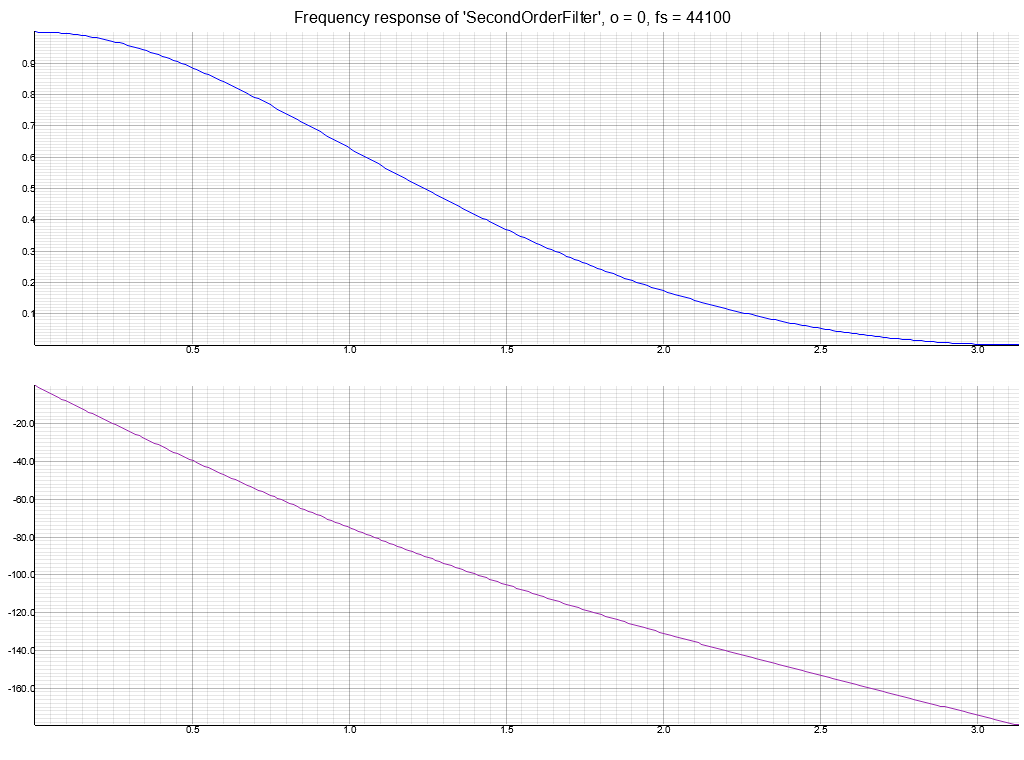
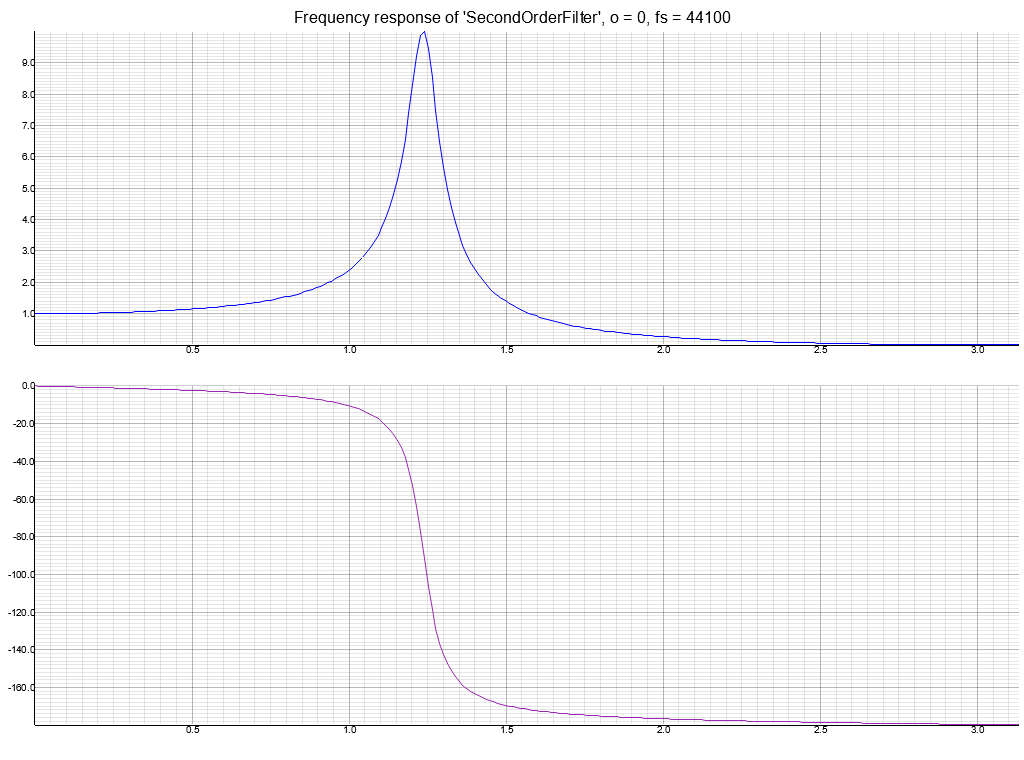
Fix tests

diff --git a/src/plot.rs b/src/plot.rs
@@ -33,7 +33,7 @@ pub fn plot_pz(
         [Complex::new(-1.0, 1.0), Complex::new(1.0, -1.0)]
     ];
     let zero_sym: [Complex<f64>; CIRCLE_RES] = (0.0..=TAU).linspace_array()
-        .map2(/*const*/ |theta| Complex::new(theta.approx_cos(), theta.approx_sin()));
+        .map(|theta| Complex::new(theta.cos(), theta.sin()));
 
     let (sigma_min, sigma_max, omega_min, omega_max) = poles.into_iter()
         .chain(zeros.into_iter())
@@ -132,7 +132,7 @@ where
 
     let ([x_min, y_norm_min, y_arg_min], [x_max, y_norm_max, y_arg_max]) = xy.into_iter()
         .map(|(x, y_norm, y_arg)| ([x, y_norm, y_arg], [x, y_norm, y_arg]))
-        .reduce(|a, b| (a.0.zip(b.0).map(|(a, b)| a.min(b)), a.1.zip(b.1).map(|(a, b)| a.max(b))))
+        .reduce(|a, b| (core::array::from_fn(|i| a.0[i].min(b.0[i])), core::array::from_fn(|i| a.1[i].max(b.1[i]))))
         .unwrap();
     
     let area = BitMapBackend::new(plot_path, PLOT_RES).into_drawing_area();
@@ -198,7 +198,7 @@ where
 
     let ([x_min, y_min], [x_max, y_max]) = xy.into_iter()
         .map(|(x, y)| ([x, y], [x, y]))
-        .reduce(|a, b| (a.0.zip(b.0).map(|(a, b)| a.min(b)), a.0.zip(b.0).map(|(a, b)| a.max(b))))
+        .reduce(|a, b| (core::array::from_fn(|i| a.0[i].min(b.0[i])), core::array::from_fn(|i| a.1[i].max(b.1[i]))))
         .unwrap();
     
     let area = BitMapBackend::new(plot_path, PLOT_RES).into_drawing_area();
@@ -247,11 +247,11 @@ where
 
     let area = SVGBackend::new(plot_path, PLOT_RES).into_drawing_area();
     
-    let x_min = x.reduce(F::min).unwrap();
-    let x_max = x.reduce(F::max).unwrap();
+    let x_min = x.iter().copied().reduce(F::min).unwrap();
+    let x_max = x.iter().copied().reduce(F::max).unwrap();
     
-    let y_min = y.reduce(F::min).unwrap();
-    let y_max = y.reduce(F::max).unwrap();
+    let y_min = y.iter().copied().reduce(F::min).unwrap();
+    let y_max = y.iter().copied().reduce(F::max).unwrap();
 
     let f_ref = &f;
     let f_values: Vec<F> = y.into_iter()
@@ -322,7 +322,7 @@ where
 
     let ([x_min, y_min, z_min], [x_max, y_max, z_max]) = f_values.into_iter()
         .map(|f| (f, f))
-        .reduce(|a, b| (a.0.zip(b.0).map(|(a, b)| a.min(b)), a.1.zip(b.1).map(|(a, b)| a.max(b))))
+        .reduce(|a, b| (core::array::from_fn(|i| a.0[i].min(b.0[i])), core::array::from_fn(|i| a.1[i].max(b.1[i]))))
         .unwrap();
 
     area.fill(&WHITE)?;
@@ -499,7 +499,7 @@ where
 
     let ([_r_min, theta_min, z_min], [r_max, theta_max, z_max]) = f_values.into_iter()
         .map(|f| (f, f))
-        .reduce(|a, b| (a.0.zip(b.0).map(|(a, b)| a.min(b)), a.1.zip(b.1).map(|(a, b)| a.max(b))))
+        .reduce(|a, b| (core::array::from_fn(|i| a.0[i].min(b.0[i])), core::array::from_fn(|i| a.1[i].max(b.1[i]))))
         .unwrap();
 
     area.fill(&WHITE)?;

diff --git a/src/iir/second/second_order_filter.rs b/src/iir/second/second_order_filter.rs
@@ -66,7 +66,7 @@ crate::def_rtf!(
                     [
                         rate*omega*f!(2.0),
                         f!(0.0; F),
-                        rate*omega*f!(-2.0),
+                        rate*omega*f!(-2.0)
                     ],
                     [
                         rate2*f!(4.0),
@@ -104,7 +104,7 @@ mod test
     #[test]
     fn plot()
     {
-        let mut filter = SecondOrderFilter::new(OmegaZeta::new(10000.0*TAU, 1.0));
+        let mut filter = SecondOrderFilter::new(OmegaZeta::new(10000.0*TAU, 0.05));
         crate::tests::plot_freq(&mut filter, false).unwrap();
     }
 }

diff --git a/src/lib.rs b/src/lib.rs
@@ -368,10 +368,10 @@ mod tests
         for (output_number, freq_response) in freq_response.into_iter()
             .enumerate()
         {
-            plot::plot_bode(
+            plot::plot_bode::<F, N>(
                 &format!("Frequency response of '{}', o = {}, fs = {}", filter_name, output_number, sampling_frequency),
                 &format!("{}/{}{}.png", PLOT_TARGET, file_name_no_extension, output_number),
-                omega.zip(*freq_response),
+                core::array::from_fn(|i| (omega[i], freq_response[i])),
             )?
         }
         Ok(())
